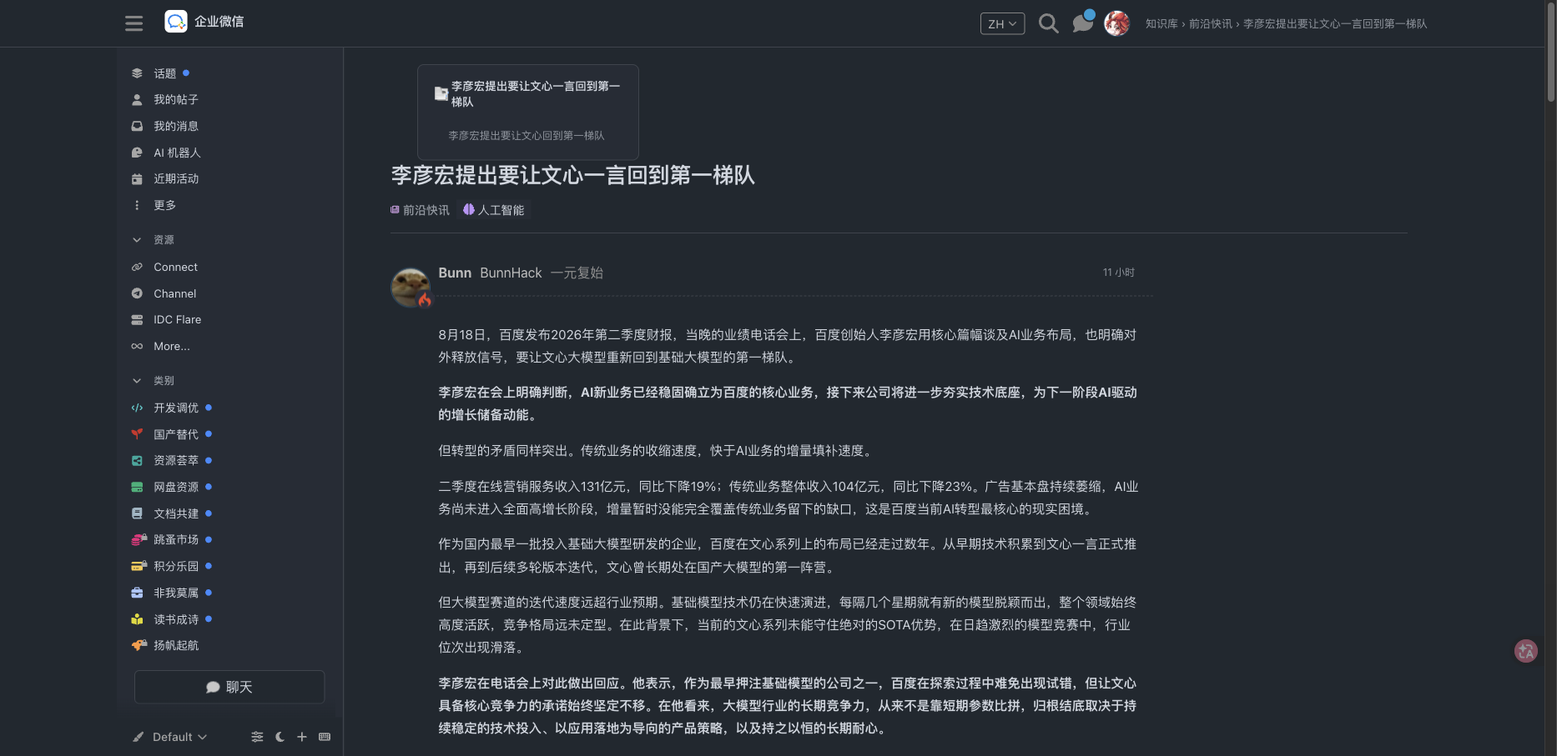
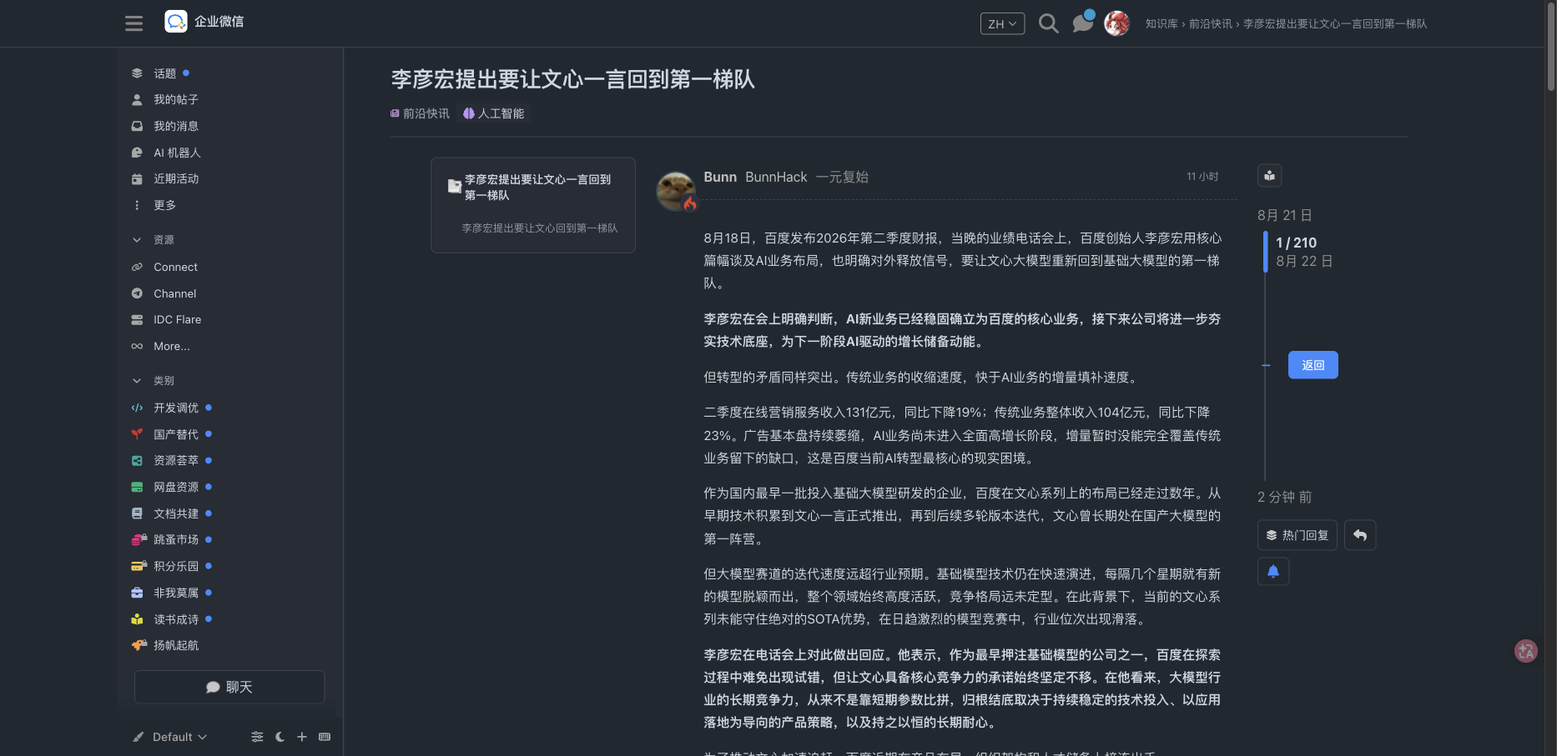
fix(layout): fix TOC positioning and restore WeCom styled topic timeline

diff --git a/linuxdo-wecom.user.js b/linuxdo-wecom.user.js
@@ -12,7 +12,7 @@
 
 (function () {
   "use strict";
-  const CSS = "/* ==========================================================================\n   Linux DO · 企业微信智能文档 / 团队知识库版式样式表 (WeCom Smart Doc Layout)\n   ========================================================================== */\n\n/* 1. 主题与色彩系统 (Theme & Tokens) */\nhtml.wecom-doc-theme {\n  color-scheme: light !important;\n  --wecom-bg: #ffffff;\n  --wecom-sidebar: #f6f7f9;\n  --wecom-line: #ebebeb;\n  --wecom-text: #1f1f1f;\n  --wecom-text-2: #6e6e6e;\n  --wecom-text-3: #8c8c8c;\n  --wecom-search: #f3f3f3;\n  --wecom-hover: #f0f0f0;\n  --wecom-active: rgba(31, 126, 255, 0.12);\n  --wecom-link: #1f7eff;\n  --wecom-link-hover: #006fe6;\n  --wecom-doc: #4b8cff;\n  --wecom-callout-bg: #f0f6ff;\n  --wecom-callout-border: rgba(31, 126, 255, 0.2);\n  --wecom-header-h: 56px;\n\n  /* Discourse 原生变量覆盖 */\n  --primary: #1f1f1f !important;\n  --secondary: #ffffff !important;\n  --header_background: #ffffff !important;\n  --header_primary: #1f1f1f !important;\n  --primary-low: #f6f7f9 !important;\n  --primary-very-low: #ffffff !important;\n  --d-hover: #f0f0f0 !important;\n  --tertiary: #1f7eff !important;\n}\n\n/* 深色模式：严格采用 GitHub Primer soft dark (dark_dimmed) + 智能文档蓝 */\nhtml.wecom-doc-theme.wecom-dark {\n  color-scheme: dark !important;\n  --wecom-bg: #212830;\n  --wecom-sidebar: #262c36;\n  --wecom-line: #3d444d;\n  --wecom-text: #d1d7e0;\n  --wecom-text-2: #9198a1;\n  --wecom-text-3: #9198a1;\n  --wecom-search: #2a313c;\n  --wecom-hover: #2f3742;\n  --wecom-active: rgba(56, 139, 255, 0.18);\n  --wecom-link: #388bff;\n  --wecom-link-hover: #549dff;\n  --wecom-doc: #4b8cff;\n  --wecom-callout-bg: #1c2438;\n  --wecom-callout-border: rgba(56, 139, 255, 0.25);\n\n  /* Discourse 原生变量覆盖 */\n  --primary: #d1d7e0 !important;\n  --secondary: #212830 !important;\n  --header_background: #212830 !important;\n  --header_primary: #d1d7e0 !important;\n  --primary-low: #262c36 !important;\n  --primary-very-low: #151b23 !important;\n  --d-hover: #2f3742 !important;\n  --tertiary: #388bff !important;\n}\n\nhtml.wecom-doc-theme,\nhtml.wecom-doc-theme body {\n  background: var(--wecom-bg) !important;\n  color: var(--wecom-text) !important;\n  font-family: -apple-system, BlinkMacSystemFont, \"Segoe UI\", \"PingFang SC\",\n    \"Hiragino Sans GB\", \"Microsoft YaHei\", Arial, sans-serif !important;\n  -webkit-font-smoothing: antialiased;\n}\n\nhtml.wecom-doc-theme a {\n  color: inherit;\n  text-decoration: none;\n}\n\nhtml.wecom-doc-theme .cooked a {\n  color: var(--wecom-link) !important;\n  text-decoration: none;\n}\n\nhtml.wecom-doc-theme .cooked a:hover {\n  text-decoration: underline;\n}\n\n/* ==========================================================================\n   2. 顶栏组件 (Header)\n   ========================================================================== */\nhtml.wecom-doc-theme .d-header-wrap,\nhtml.wecom-doc-theme body .d-header {\n  height: var(--wecom-header-h) !important;\n  background: var(--wecom-bg) !important;\n  border-bottom: 1px solid var(--wecom-line) !important;\n  box-shadow: none !important;\n}\n\nhtml.wecom-doc-theme .d-header .title img,\nhtml.wecom-doc-theme .d-header .title picture,\nhtml.wecom-doc-theme .d-header .title .logo-big,\nhtml.wecom-doc-theme .d-header .title .logo-small {\n  display: none !important;\n}\n\nhtml.wecom-doc-theme .wecom-brand {\n  display: inline-flex;\n  align-items: center;\n  gap: 8px;\n  font-size: 15px;\n  font-weight: 600;\n  color: var(--wecom-text);\n  text-decoration: none;\n  letter-spacing: -0.2px;\n}\n\nhtml.wecom-doc-theme .wecom-app-icon {\n  width: 28px;\n  height: 28px;\n  flex: none;\n  filter: drop-shadow(0 1px 2px rgba(0, 0, 0, 0.08));\n}\n\nhtml.wecom-doc-theme .wecom-topic-context {\n  margin-left: 14px;\n  display: inline-flex;\n  align-items: center;\n  overflow: hidden;\n  text-overflow: ellipsis;\n  white-space: nowrap;\n  color: var(--wecom-text-2);\n  font-size: 13px;\n  max-width: 55vw;\n}\n\nhtml.wecom-doc-theme .d-header .search-input {\n  border-radius: 6px !important;\n  background: var(--wecom-search) !important;\n  border: 1px solid var(--wecom-line) !important;\n  color: var(--wecom-text) !important;\n}\n\n/* ==========================================================================\n   3. 侧边栏导航 (Sidebar / Knowledge Base Navigation)\n   ========================================================================== */\nhtml.wecom-doc-theme .sidebar-wrapper {\n  background: var(--wecom-sidebar) !important;\n  border-right: 1px solid var(--wecom-line) !important;\n  box-shadow: none !important;\n}\n\nhtml.wecom-doc-theme .sidebar-section-header-text {\n  font-size: 12px !important;\n  font-weight: 600 !important;\n  color: var(--wecom-text-3) !important;\n  text-transform: uppercase;\n  letter-spacing: 0.5px;\n}\n\nhtml.wecom-doc-theme .sidebar-section-link,\nhtml.wecom-doc-theme .sidebar-section-link-content-text {\n  color: var(--wecom-text) !important;\n  font-size: 13.5px !important;\n  font-weight: 400;\n}\n\nhtml.wecom-doc-theme .sidebar-section-link-wrapper.is-active,\nhtml.wecom-doc-theme .sidebar-section-link.active {\n  background: var(--wecom-active) !important;\n  color: var(--wecom-link) !important;\n  border-radius: 6px;\n  font-weight: 500 !important;\n}\n\nhtml.wecom-doc-theme .sidebar-section-link:hover {\n  background: var(--wecom-hover);\n  border-radius: 6px;\n}\n\n/* ==========================================================================\n   4. 主页文件表版式 (Home: Knowledge Base File Table)\n   ========================================================================== */\n/* 弱化或隐藏论坛式大条幅与全站公告 */\nhtml.wecom-doc-theme .custom-homepage-banner,\nhtml.wecom-doc-theme #banner,\nhtml.wecom-doc-theme .global-notice,\nhtml.wecom-doc-theme .alert-global-notice,\nhtml.wecom-doc-theme .welcome-banner,\nhtml.wecom-doc-theme .custom-search-banner-wrap,\nhtml.wecom-doc-theme .where-possible-begins,\nhtml.wecom-doc-theme .hero-banner {\n  display: none !important;\n}\n\n/* 主内容区 */\nhtml.wecom-doc-theme #main-outlet {\n  background: var(--wecom-bg) !important;\n  max-width: 1380px !important;\n  padding: 20px 24px !important;\n}\n\n/* 话题列表表头伪装为文件表 */\nhtml.wecom-doc-theme .topic-list-header th {\n  color: var(--wecom-text-3) !important;\n  border-bottom: 1px solid var(--wecom-line) !important;\n  font-weight: 500;\n  font-size: 13px;\n  padding: 10px 8px;\n}\n\nhtml.wecom-doc-theme .topic-list-item {\n  border-bottom: 1px solid var(--wecom-line) !important;\n  transition: background 120ms ease;\n}\n\nhtml.wecom-doc-theme .topic-list-item:hover {\n  background: var(--wecom-hover) !important;\n}\n\n/* 行首蓝色文档图标 */\nhtml.wecom-doc-theme .wecom-doc-icon {\n  width: 18px;\n  height: 18px;\n  border-radius: 4px;\n  flex: none;\n  background: var(--wecom-doc);\n  position: relative;\n  display: inline-block;\n  vertical-align: -3px;\n  margin-right: 8px;\n}\n\nhtml.wecom-doc-theme .wecom-doc-icon::before {\n  content: \"\";\n  position: absolute;\n  left: 3.5px;\n  right: 3.5px;\n  top: 4px;\n  bottom: 4px;\n  background:\n    linear-gradient(#fff, #fff) 0 0 / 100% 2px no-repeat,\n    linear-gradient(#fff, #fff) 0 3.5px / 100% 2px no-repeat,\n    linear-gradient(#fff, #fff) 0 7px / 65% 2px no-repeat;\n}\n\n/* 压缩头像列，减少论坛广场感 */\nhtml.wecom-doc-theme .topic-list .posters {\n  max-width: 90px;\n}\n\nhtml.wecom-doc-theme .topic-list .posters a:not(:first-child) {\n  margin-left: -8px;\n  opacity: 0.85;\n}\n\nhtml.wecom-doc-theme .topic-list .avatar {\n  width: 22px !important;\n  height: 22px !important;\n  border-radius: 50% !important;\n  border: 1.5px solid var(--wecom-bg) !important;\n}\n\n/* 新建话题按钮 -> 企微新建文档按钮 */\nhtml.wecom-doc-theme .btn-primary,\nhtml.wecom-doc-theme .wecom-create-topic {\n  background: var(--wecom-link) !important;\n  color: #fff !important;\n  border: none !important;\n  border-radius: 6px !important;\n  font-weight: 500 !important;\n  padding: 7px 16px !important;\n  transition: background 120ms ease;\n}\n\nhtml.wecom-doc-theme .btn-primary:hover,\nhtml.wecom-doc-theme .wecom-create-topic:hover {\n  background: var(--wecom-link-hover) !important;\n}\n\nhtml.wecom-doc-theme .btn-default {\n  border-radius: 6px !important;\n  border: 1px solid var(--wecom-line) !important;\n  background: var(--wecom-bg) !important;\n  color: var(--wecom-text) !important;\n}\n\n/* ==========================================================================\n   5. 话题详情页版式 (Topic: Smart Document Canvas)\n   ========================================================================== */\nhtml.wecom-doc-topic #main-container {\n  display: flex !important;\n  flex-direction: row !important;\n  gap: 32px !important;\n  align-items: flex-start !important;\n  max-width: 1400px !important;\n  margin: 0 auto !important;\n  width: 100% !important;\n}\n\n/* 隐藏原生突兀的时间线与繁杂导航 */\nhtml.wecom-doc-topic .timeline-container,\nhtml.wecom-doc-topic #topic-navigation .topic-timeline,\nhtml.wecom-doc-topic .topic-timeline {\n  display: none !important;\n}\n\n/* 左栏 TOC 目录 (aside.wecom-toc) */\nhtml.wecom-doc-topic aside.wecom-toc {\n  width: 240px;\n  flex: none;\n  position: sticky;\n  top: 72px;\n  max-height: calc(100vh - 100px);\n  overflow-y: auto;\n  background: var(--wecom-sidebar);\n  border: 1px solid var(--wecom-line);\n  border-radius: 8px;\n  padding: 12px;\n  font-size: 13px;\n  box-shadow: 0 1px 3px rgba(0, 0, 0, 0.04);\n}\n\nhtml.wecom-doc-topic aside.wecom-toc.wecom-toc-empty {\n  display: none !important;\n}\n\nhtml.wecom-doc-topic .wecom-toc-header {\n  display: flex;\n  align-items: center;\n  gap: 6px;\n  font-size: 13.5px;\n  font-weight: 600;\n  color: var(--wecom-text);\n  margin-bottom: 12px;\n  cursor: pointer;\n  padding: 4px 8px;\n  border-radius: 6px;\n}\n\nhtml.wecom-doc-topic .wecom-toc-header:hover {\n  background: var(--wecom-hover);\n}\n\nhtml.wecom-doc-topic .wecom-toc-list {\n  list-style: none;\n  margin: 0;\n  padding: 0;\n}\n\nhtml.wecom-doc-topic .wecom-toc-item {\n  margin: 4px 0;\n}\n\nhtml.wecom-doc-topic .wecom-toc-item a {\n  display: block;\n  padding: 5px 8px;\n  border-radius: 6px;\n  color: var(--wecom-text-2);\n  white-space: nowrap;\n  overflow: hidden;\n  text-overflow: ellipsis;\n  transition: all 120ms ease;\n}\n\nhtml.wecom-doc-topic .wecom-toc-item a:hover {\n  background: var(--wecom-hover);\n  color: var(--wecom-link);\n}\n\nhtml.wecom-doc-topic .wecom-toc-level-2 a {\n  padding-left: 14px;\n}\n\nhtml.wecom-doc-topic .wecom-toc-level-3 a {\n  padding-left: 24px;\n  font-size: 12.5px;\n}\n\n/* 中栏主体 (Document Area) */\nhtml.wecom-doc-topic .container.posts {\n  flex: 1 1 0% !important;\n  min-width: 0 !important;\n}\n\nhtml.wecom-doc-topic #topic-title {\n  margin-bottom: 24px !important;\n  padding-bottom: 16px !important;\n  border-bottom: 1px solid var(--wecom-line) !important;\n}\n\nhtml.wecom-doc-topic #topic-title h1,\nhtml.wecom-doc-topic #topic-title .fancy-title {\n  font-size: 26px !important;\n  font-weight: 700 !important;\n  line-height: 1.35 !important;\n  color: var(--wecom-text) !important;\n  letter-spacing: -0.3px;\n  margin-bottom: 12px !important;\n}\n\nhtml.wecom-doc-topic #topic-title .badge-wrapper.bullet,\nhtml.wecom-doc-topic #topic-title .badge-wrapper.bar {\n  display: inline-flex !important;\n  align-items: center !important;\n  padding: 2px 8px !important;\n  border-radius: 4px !important;\n  background: var(--wecom-search) !important;\n  font-size: 12px !important;\n  margin-right: 6px !important;\n}\n\nhtml.wecom-doc-topic #topic-title .badge-category__name,\nhtml.wecom-doc-topic #topic-title .badge-category-bg {\n  color: var(--wecom-text-2) !important;\n  font-weight: 500 !important;\n}\n\n/* 主帖 (#post_1) 作为核心文档画布 */\nhtml.wecom-doc-topic .topic-post:first-child {\n  border: none !important;\n  margin-bottom: 36px !important;\n}\n\nhtml.wecom-doc-topic .topic-post:first-child .topic-body {\n  border-top: none !important;\n}\n\nhtml.wecom-doc-topic .topic-post:first-child .topic-meta-data {\n  display: flex !important;\n  align-items: center !important;\n  gap: 10px !important;\n  padding-bottom: 16px !important;\n  margin-bottom: 16px !important;\n  border-bottom: 1px dashed var(--wecom-line) !important;\n}\n\n/* 2 楼及以后的回复呈现为轻量「批注与讨论流」 */\nhtml.wecom-doc-topic .topic-post:not(:first-child) {\n  background: var(--wecom-sidebar) !important;\n  border: 1px solid var(--wecom-line) !important;\n  border-radius: 8px !important;\n  margin: 14px 0 !important;\n  padding: 8px 16px !important;\n  box-shadow: 0 1px 2px rgba(0, 0, 0, 0.03) !important;\n}\n\nhtml.wecom-doc-topic .topic-post:not(:first-child) .topic-body {\n  border-top: none !important;\n}\n\nhtml.wecom-doc-topic .topic-post:not(:first-child) .topic-meta-data {\n  padding-bottom: 4px !important;\n}\n\nhtml.wecom-doc-topic .names span.first.username {\n  font-weight: 600 !important;\n  color: var(--wecom-text) !important;\n  font-size: 13.5px !important;\n}\n\nhtml.wecom-doc-topic .post-info.post-date {\n  color: var(--wecom-text-3) !important;\n  font-size: 12px !important;\n}\n\n/* ==========================================================================\n   6. 正文排版与组件 (Smart Typography & Callouts)\n   ========================================================================== */\nhtml.wecom-doc-theme .cooked {\n  font-size: 15.5px !important;\n  line-height: 1.75 !important;\n  color: var(--wecom-text) !important;\n}\n\nhtml.wecom-doc-theme .cooked h1 {\n  font-size: 22px !important;\n  font-weight: 700 !important;\n  margin: 28px 0 14px !important;\n  color: var(--wecom-text) !important;\n  border-bottom: 1px solid var(--wecom-line) !important;\n  padding-bottom: 8px !important;\n}\n\nhtml.wecom-doc-theme .cooked h2 {\n  font-size: 18.5px !important;\n  font-weight: 600 !important;\n  margin: 24px 0 12px !important;\n  color: var(--wecom-text) !important;\n}\n\nhtml.wecom-doc-theme .cooked h3 {\n  font-size: 16.5px !important;\n  font-weight: 600 !important;\n  margin: 20px 0 10px !important;\n  color: var(--wecom-text) !important;\n}\n\nhtml.wecom-doc-theme .cooked ul,\nhtml.wecom-doc-theme .cooked ol {\n  padding-left: 24px !important;\n  margin: 12px 0 !important;\n}\n\nhtml.wecom-doc-theme .cooked li {\n  margin-bottom: 6px !important;\n  line-height: 1.7 !important;\n}\n\n/* 智能文档专属 Callout 提示框 */\nhtml.wecom-doc-theme .cooked blockquote,\nhtml.wecom-doc-theme aside.quote {\n  margin: 16px 0 !important;\n  padding: 14px 18px !important;\n  border: 1px solid var(--wecom-callout-border) !important;\n  background: var(--wecom-callout-bg) !important;\n  border-radius: 8px !important;\n  color: var(--wecom-text) !important;\n  position: relative;\n  box-shadow: 0 1px 3px rgba(0, 0, 0, 0.04);\n}\n\nhtml.wecom-doc-theme .cooked blockquote p:last-child {\n  margin-bottom: 0 !important;\n}\n\n/* 代码块与行内代码 */\nhtml.wecom-doc-theme .cooked code {\n  background: var(--wecom-search) !important;\n  color: var(--wecom-text) !important;\n  padding: 2px 6px !important;\n  border-radius: 4px !important;\n  font-size: 0.9em !important;\n}\n\nhtml.wecom-doc-theme .cooked pre code {\n  padding: 14px 16px !important;\n  border-radius: 8px !important;\n  border: 1px solid var(--wecom-line) !important;\n  display: block;\n  line-height: 1.55 !important;\n}\n\n/* 表格组件 */\nhtml.wecom-doc-theme .cooked table {\n  width: 100% !important;\n  border-collapse: collapse !important;\n  margin: 16px 0 !important;\n  border: 1px solid var(--wecom-line) !important;\n  border-radius: 6px !important;\n}\n\nhtml.wecom-doc-theme .cooked table th,\nhtml.wecom-doc-theme .cooked table td {\n  border: 1px solid var(--wecom-line) !important;\n  padding: 10px 14px !important;\n}\n\nhtml.wecom-doc-theme .cooked table th {\n  background: var(--wecom-sidebar) !important;\n  font-weight: 600 !important;\n}\n\n/* 底部操作区 */\nhtml.wecom-doc-theme #topic-footer-buttons {\n  border-top: 1px solid var(--wecom-line) !important;\n  padding-top: 16px !important;\n}\n\n";
+  const CSS = "/* ==========================================================================\n   Linux DO · 企业微信智能文档 / 团队知识库版式样式表 (WeCom Smart Doc Layout)\n   ========================================================================== */\n\n/* 1. 主题与色彩系统 (Theme & Tokens) */\nhtml.wecom-doc-theme {\n  color-scheme: light !important;\n  --wecom-bg: #ffffff;\n  --wecom-sidebar: #f6f7f9;\n  --wecom-line: #ebebeb;\n  --wecom-text: #1f1f1f;\n  --wecom-text-2: #6e6e6e;\n  --wecom-text-3: #8c8c8c;\n  --wecom-search: #f3f3f3;\n  --wecom-hover: #f0f0f0;\n  --wecom-active: rgba(31, 126, 255, 0.12);\n  --wecom-link: #1f7eff;\n  --wecom-link-hover: #006fe6;\n  --wecom-doc: #4b8cff;\n  --wecom-callout-bg: #f0f6ff;\n  --wecom-callout-border: rgba(31, 126, 255, 0.2);\n  --wecom-header-h: 56px;\n\n  /* Discourse 原生变量覆盖 */\n  --primary: #1f1f1f !important;\n  --secondary: #ffffff !important;\n  --header_background: #ffffff !important;\n  --header_primary: #1f1f1f !important;\n  --primary-low: #f6f7f9 !important;\n  --primary-very-low: #ffffff !important;\n  --d-hover: #f0f0f0 !important;\n  --tertiary: #1f7eff !important;\n}\n\n/* 深色模式：严格采用 GitHub Primer soft dark (dark_dimmed) + 智能文档蓝 */\nhtml.wecom-doc-theme.wecom-dark {\n  color-scheme: dark !important;\n  --wecom-bg: #212830;\n  --wecom-sidebar: #262c36;\n  --wecom-line: #3d444d;\n  --wecom-text: #d1d7e0;\n  --wecom-text-2: #9198a1;\n  --wecom-text-3: #9198a1;\n  --wecom-search: #2a313c;\n  --wecom-hover: #2f3742;\n  --wecom-active: rgba(56, 139, 255, 0.18);\n  --wecom-link: #388bff;\n  --wecom-link-hover: #549dff;\n  --wecom-doc: #4b8cff;\n  --wecom-callout-bg: #1c2438;\n  --wecom-callout-border: rgba(56, 139, 255, 0.25);\n\n  /* Discourse 原生变量覆盖 */\n  --primary: #d1d7e0 !important;\n  --secondary: #212830 !important;\n  --header_background: #212830 !important;\n  --header_primary: #d1d7e0 !important;\n  --primary-low: #262c36 !important;\n  --primary-very-low: #151b23 !important;\n  --d-hover: #2f3742 !important;\n  --tertiary: #388bff !important;\n}\n\nhtml.wecom-doc-theme,\nhtml.wecom-doc-theme body {\n  background: var(--wecom-bg) !important;\n  color: var(--wecom-text) !important;\n  font-family: -apple-system, BlinkMacSystemFont, \"Segoe UI\", \"PingFang SC\",\n    \"Hiragino Sans GB\", \"Microsoft YaHei\", Arial, sans-serif !important;\n  -webkit-font-smoothing: antialiased;\n}\n\nhtml.wecom-doc-theme a {\n  color: inherit;\n  text-decoration: none;\n}\n\nhtml.wecom-doc-theme .cooked a {\n  color: var(--wecom-link) !important;\n  text-decoration: none;\n}\n\nhtml.wecom-doc-theme .cooked a:hover {\n  text-decoration: underline;\n}\n\n/* ==========================================================================\n   2. 顶栏组件 (Header)\n   ========================================================================== */\nhtml.wecom-doc-theme .d-header-wrap,\nhtml.wecom-doc-theme body .d-header {\n  height: var(--wecom-header-h) !important;\n  background: var(--wecom-bg) !important;\n  border-bottom: 1px solid var(--wecom-line) !important;\n  box-shadow: none !important;\n}\n\nhtml.wecom-doc-theme .d-header .title img,\nhtml.wecom-doc-theme .d-header .title picture,\nhtml.wecom-doc-theme .d-header .title .logo-big,\nhtml.wecom-doc-theme .d-header .title .logo-small {\n  display: none !important;\n}\n\nhtml.wecom-doc-theme .wecom-brand {\n  display: inline-flex;\n  align-items: center;\n  gap: 8px;\n  font-size: 15px;\n  font-weight: 600;\n  color: var(--wecom-text);\n  text-decoration: none;\n  letter-spacing: -0.2px;\n}\n\nhtml.wecom-doc-theme .wecom-app-icon {\n  width: 28px;\n  height: 28px;\n  flex: none;\n  filter: drop-shadow(0 1px 2px rgba(0, 0, 0, 0.08));\n}\n\nhtml.wecom-doc-theme .wecom-topic-context {\n  margin-left: 14px;\n  display: inline-flex;\n  align-items: center;\n  overflow: hidden;\n  text-overflow: ellipsis;\n  white-space: nowrap;\n  color: var(--wecom-text-2);\n  font-size: 13px;\n  max-width: 55vw;\n}\n\nhtml.wecom-doc-theme .d-header .search-input {\n  border-radius: 6px !important;\n  background: var(--wecom-search) !important;\n  border: 1px solid var(--wecom-line) !important;\n  color: var(--wecom-text) !important;\n}\n\n/* ==========================================================================\n   3. 侧边栏导航 (Sidebar / Knowledge Base Navigation)\n   ========================================================================== */\nhtml.wecom-doc-theme .sidebar-wrapper {\n  background: var(--wecom-sidebar) !important;\n  border-right: 1px solid var(--wecom-line) !important;\n  box-shadow: none !important;\n}\n\nhtml.wecom-doc-theme .sidebar-section-header-text {\n  font-size: 12px !important;\n  font-weight: 600 !important;\n  color: var(--wecom-text-3) !important;\n  text-transform: uppercase;\n  letter-spacing: 0.5px;\n}\n\nhtml.wecom-doc-theme .sidebar-section-link,\nhtml.wecom-doc-theme .sidebar-section-link-content-text {\n  color: var(--wecom-text) !important;\n  font-size: 13.5px !important;\n  font-weight: 400;\n}\n\nhtml.wecom-doc-theme .sidebar-section-link-wrapper.is-active,\nhtml.wecom-doc-theme .sidebar-section-link.active {\n  background: var(--wecom-active) !important;\n  color: var(--wecom-link) !important;\n  border-radius: 6px;\n  font-weight: 500 !important;\n}\n\nhtml.wecom-doc-theme .sidebar-section-link:hover {\n  background: var(--wecom-hover);\n  border-radius: 6px;\n}\n\n/* ==========================================================================\n   4. 主页文件表版式 (Home: Knowledge Base File Table)\n   ========================================================================== */\n/* 弱化或隐藏论坛式大条幅与全站公告 */\nhtml.wecom-doc-theme .custom-homepage-banner,\nhtml.wecom-doc-theme #banner,\nhtml.wecom-doc-theme .global-notice,\nhtml.wecom-doc-theme .alert-global-notice,\nhtml.wecom-doc-theme .welcome-banner,\nhtml.wecom-doc-theme .custom-search-banner-wrap,\nhtml.wecom-doc-theme .where-possible-begins,\nhtml.wecom-doc-theme .hero-banner {\n  display: none !important;\n}\n\n/* 主内容区 */\nhtml.wecom-doc-theme #main-outlet {\n  background: var(--wecom-bg) !important;\n  max-width: 1380px !important;\n  padding: 20px 24px !important;\n}\n\n/* 话题列表表头伪装为文件表 */\nhtml.wecom-doc-theme .topic-list-header th {\n  color: var(--wecom-text-3) !important;\n  border-bottom: 1px solid var(--wecom-line) !important;\n  font-weight: 500;\n  font-size: 13px;\n  padding: 10px 8px;\n}\n\nhtml.wecom-doc-theme .topic-list-item {\n  border-bottom: 1px solid var(--wecom-line) !important;\n  transition: background 120ms ease;\n}\n\nhtml.wecom-doc-theme .topic-list-item:hover {\n  background: var(--wecom-hover) !important;\n}\n\n/* 行首蓝色文档图标 */\nhtml.wecom-doc-theme .wecom-doc-icon {\n  width: 18px;\n  height: 18px;\n  border-radius: 4px;\n  flex: none;\n  background: var(--wecom-doc);\n  position: relative;\n  display: inline-block;\n  vertical-align: -3px;\n  margin-right: 8px;\n}\n\nhtml.wecom-doc-theme .wecom-doc-icon::before {\n  content: \"\";\n  position: absolute;\n  left: 3.5px;\n  right: 3.5px;\n  top: 4px;\n  bottom: 4px;\n  background:\n    linear-gradient(#fff, #fff) 0 0 / 100% 2px no-repeat,\n    linear-gradient(#fff, #fff) 0 3.5px / 100% 2px no-repeat,\n    linear-gradient(#fff, #fff) 0 7px / 65% 2px no-repeat;\n}\n\n/* 压缩头像列，减少论坛广场感 */\nhtml.wecom-doc-theme .topic-list .posters {\n  max-width: 90px;\n}\n\nhtml.wecom-doc-theme .topic-list .posters a:not(:first-child) {\n  margin-left: -8px;\n  opacity: 0.85;\n}\n\nhtml.wecom-doc-theme .topic-list .avatar {\n  width: 22px !important;\n  height: 22px !important;\n  border-radius: 50% !important;\n  border: 1.5px solid var(--wecom-bg) !important;\n}\n\n/* 新建话题按钮 -> 企微新建文档按钮 */\nhtml.wecom-doc-theme .btn-primary,\nhtml.wecom-doc-theme .wecom-create-topic {\n  background: var(--wecom-link) !important;\n  color: #fff !important;\n  border: none !important;\n  border-radius: 6px !important;\n  font-weight: 500 !important;\n  padding: 7px 16px !important;\n  transition: background 120ms ease;\n}\n\nhtml.wecom-doc-theme .btn-primary:hover,\nhtml.wecom-doc-theme .wecom-create-topic:hover {\n  background: var(--wecom-link-hover) !important;\n}\n\nhtml.wecom-doc-theme .btn-default {\n  border-radius: 6px !important;\n  border: 1px solid var(--wecom-line) !important;\n  background: var(--wecom-bg) !important;\n  color: var(--wecom-text) !important;\n}\n\n/* ==========================================================================\n   5. 话题详情页版式 (Topic: Smart Document Canvas & Timeline)\n   ========================================================================== */\nhtml.wecom-doc-topic #main-container {\n  max-width: 1400px !important;\n  margin: 0 auto !important;\n  width: 100% !important;\n}\n\nhtml.wecom-doc-topic #topic-title {\n  margin-bottom: 24px !important;\n  padding-bottom: 16px !important;\n  border-bottom: 1px solid var(--wecom-line) !important;\n  width: 100% !important;\n}\n\nhtml.wecom-doc-topic #topic-title h1,\nhtml.wecom-doc-topic #topic-title .fancy-title {\n  font-size: 26px !important;\n  font-weight: 700 !important;\n  line-height: 1.35 !important;\n  color: var(--wecom-text) !important;\n  letter-spacing: -0.3px;\n  margin-bottom: 12px !important;\n}\n\nhtml.wecom-doc-topic #topic-title .badge-wrapper.bullet,\nhtml.wecom-doc-topic #topic-title .badge-wrapper.bar {\n  display: inline-flex !important;\n  align-items: center !important;\n  padding: 2px 8px !important;\n  border-radius: 4px !important;\n  background: var(--wecom-search) !important;\n  font-size: 12px !important;\n  margin-right: 6px !important;\n}\n\nhtml.wecom-doc-topic #topic-title .badge-category__name,\nhtml.wecom-doc-topic #topic-title .badge-category-bg {\n  color: var(--wecom-text-2) !important;\n  font-weight: 500 !important;\n}\n\n/* 话题正文与侧栏三栏协同容器 */\nhtml.wecom-doc-topic .container.posts {\n  display: flex !important;\n  flex-direction: row !important;\n  gap: 24px !important;\n  align-items: flex-start !important;\n  width: 100% !important;\n  position: relative !important;\n}\n\n/* 左栏 TOC 目录 (aside.wecom-toc) */\nhtml.wecom-doc-topic aside.wecom-toc {\n  order: 1 !important;\n  width: 220px !important;\n  flex: none !important;\n  position: sticky !important;\n  top: 72px !important;\n  align-self: flex-start !important;\n  max-height: calc(100vh - 100px) !important;\n  overflow-y: auto !important;\n  background: var(--wecom-sidebar) !important;\n  border: 1px solid var(--wecom-line) !important;\n  border-radius: 8px !important;\n  padding: 12px !important;\n  font-size: 13px !important;\n  box-shadow: 0 1px 3px rgba(0, 0, 0, 0.04) !important;\n  z-index: 10 !important;\n}\n\nhtml.wecom-doc-topic .wecom-toc-header {\n  display: flex;\n  align-items: center;\n  gap: 6px;\n  font-size: 13.5px;\n  font-weight: 600;\n  color: var(--wecom-text);\n  margin-bottom: 12px;\n  cursor: pointer;\n  padding: 4px 8px;\n  border-radius: 6px;\n}\n\nhtml.wecom-doc-topic .wecom-toc-header:hover {\n  background: var(--wecom-hover);\n}\n\nhtml.wecom-doc-topic .wecom-toc-list {\n  list-style: none;\n  margin: 0;\n  padding: 0;\n}\n\nhtml.wecom-doc-topic .wecom-toc-item {\n  margin: 4px 0;\n}\n\nhtml.wecom-doc-topic .wecom-toc-item a {\n  display: block;\n  padding: 5px 8px;\n  border-radius: 6px;\n  color: var(--wecom-text-2);\n  white-space: nowrap;\n  overflow: hidden;\n  text-overflow: ellipsis;\n  transition: all 120ms ease;\n}\n\nhtml.wecom-doc-topic .wecom-toc-item a:hover {\n  background: var(--wecom-hover);\n  color: var(--wecom-link);\n}\n\nhtml.wecom-doc-topic .wecom-toc-level-2 a {\n  padding-left: 14px;\n}\n\nhtml.wecom-doc-topic .wecom-toc-level-3 a {\n  padding-left: 24px;\n  font-size: 12.5px;\n}\n\n/* 中栏正文流 (Main Post Stream) */\nhtml.wecom-doc-topic .container.posts > .row,\nhtml.wecom-doc-topic .container.posts .post-stream {\n  order: 2 !important;\n  flex: 1 1 0% !important;\n  min-width: 0 !important;\n  width: 100% !important;\n}\n\n/* 右栏时间线与阅读进度导航 (Topic Timeline) */\nhtml.wecom-doc-topic .container.posts .topic-navigation {\n  order: 3 !important;\n  width: 180px !important;\n  flex: none !important;\n  position: sticky !important;\n  top: 72px !important;\n  align-self: flex-start !important;\n  display: block !important;\n  margin: 0 !important;\n}\n\nhtml.wecom-doc-topic .timeline-container {\n  background: transparent !important;\n  display: block !important;\n  position: static !important;\n}\n\nhtml.wecom-doc-topic .timeline-container .topic-timeline .timeline-handle {\n  background-color: var(--wecom-link) !important;\n  border-radius: 4px !important;\n}\n\nhtml.wecom-doc-topic .timeline-container .topic-timeline .timeline-scrollarea {\n  border-left: 2px solid var(--wecom-line) !important;\n}\n\nhtml.wecom-doc-topic .timeline-container .topic-timeline .timeline-docked {\n  border-left-color: var(--wecom-line) !important;\n}\n\nhtml.wecom-doc-topic .timeline-container .timeline-controls button {\n  border-radius: 6px !important;\n  border: 1px solid var(--wecom-line) !important;\n  background: var(--wecom-sidebar) !important;\n  color: var(--wecom-text) !important;\n  font-size: 12px !important;\n}\n\nhtml.wecom-doc-topic .wecom-toc-level-3 a {\n  padding-left: 24px;\n  font-size: 12.5px;\n}\n\n/* 中栏主体 (Document Area) */\nhtml.wecom-doc-topic .container.posts {\n  flex: 1 1 0% !important;\n  min-width: 0 !important;\n}\n\nhtml.wecom-doc-topic #topic-title {\n  margin-bottom: 24px !important;\n  padding-bottom: 16px !important;\n  border-bottom: 1px solid var(--wecom-line) !important;\n}\n\nhtml.wecom-doc-topic #topic-title h1,\nhtml.wecom-doc-topic #topic-title .fancy-title {\n  font-size: 26px !important;\n  font-weight: 700 !important;\n  line-height: 1.35 !important;\n  color: var(--wecom-text) !important;\n  letter-spacing: -0.3px;\n  margin-bottom: 12px !important;\n}\n\nhtml.wecom-doc-topic #topic-title .badge-wrapper.bullet,\nhtml.wecom-doc-topic #topic-title .badge-wrapper.bar {\n  display: inline-flex !important;\n  align-items: center !important;\n  padding: 2px 8px !important;\n  border-radius: 4px !important;\n  background: var(--wecom-search) !important;\n  font-size: 12px !important;\n  margin-right: 6px !important;\n}\n\nhtml.wecom-doc-topic #topic-title .badge-category__name,\nhtml.wecom-doc-topic #topic-title .badge-category-bg {\n  color: var(--wecom-text-2) !important;\n  font-weight: 500 !important;\n}\n\n/* 主帖 (#post_1) 作为核心文档画布 */\nhtml.wecom-doc-topic .topic-post:first-child {\n  border: none !important;\n  margin-bottom: 36px !important;\n}\n\nhtml.wecom-doc-topic .topic-post:first-child .topic-body {\n  border-top: none !important;\n}\n\nhtml.wecom-doc-topic .topic-post:first-child .topic-meta-data {\n  display: flex !important;\n  align-items: center !important;\n  gap: 10px !important;\n  padding-bottom: 16px !important;\n  margin-bottom: 16px !important;\n  border-bottom: 1px dashed var(--wecom-line) !important;\n}\n\n/* 2 楼及以后的回复呈现为轻量「批注与讨论流」 */\nhtml.wecom-doc-topic .topic-post:not(:first-child) {\n  background: var(--wecom-sidebar) !important;\n  border: 1px solid var(--wecom-line) !important;\n  border-radius: 8px !important;\n  margin: 14px 0 !important;\n  padding: 8px 16px !important;\n  box-shadow: 0 1px 2px rgba(0, 0, 0, 0.03) !important;\n}\n\nhtml.wecom-doc-topic .topic-post:not(:first-child) .topic-body {\n  border-top: none !important;\n}\n\nhtml.wecom-doc-topic .topic-post:not(:first-child) .topic-meta-data {\n  padding-bottom: 4px !important;\n}\n\nhtml.wecom-doc-topic .names span.first.username {\n  font-weight: 600 !important;\n  color: var(--wecom-text) !important;\n  font-size: 13.5px !important;\n}\n\nhtml.wecom-doc-topic .post-info.post-date {\n  color: var(--wecom-text-3) !important;\n  font-size: 12px !important;\n}\n\n/* ==========================================================================\n   6. 正文排版与组件 (Smart Typography & Callouts)\n   ========================================================================== */\nhtml.wecom-doc-theme .cooked {\n  font-size: 15.5px !important;\n  line-height: 1.75 !important;\n  color: var(--wecom-text) !important;\n}\n\nhtml.wecom-doc-theme .cooked h1 {\n  font-size: 22px !important;\n  font-weight: 700 !important;\n  margin: 28px 0 14px !important;\n  color: var(--wecom-text) !important;\n  border-bottom: 1px solid var(--wecom-line) !important;\n  padding-bottom: 8px !important;\n}\n\nhtml.wecom-doc-theme .cooked h2 {\n  font-size: 18.5px !important;\n  font-weight: 600 !important;\n  margin: 24px 0 12px !important;\n  color: var(--wecom-text) !important;\n}\n\nhtml.wecom-doc-theme .cooked h3 {\n  font-size: 16.5px !important;\n  font-weight: 600 !important;\n  margin: 20px 0 10px !important;\n  color: var(--wecom-text) !important;\n}\n\nhtml.wecom-doc-theme .cooked ul,\nhtml.wecom-doc-theme .cooked ol {\n  padding-left: 24px !important;\n  margin: 12px 0 !important;\n}\n\nhtml.wecom-doc-theme .cooked li {\n  margin-bottom: 6px !important;\n  line-height: 1.7 !important;\n}\n\n/* 智能文档专属 Callout 提示框 */\nhtml.wecom-doc-theme .cooked blockquote,\nhtml.wecom-doc-theme aside.quote {\n  margin: 16px 0 !important;\n  padding: 14px 18px !important;\n  border: 1px solid var(--wecom-callout-border) !important;\n  background: var(--wecom-callout-bg) !important;\n  border-radius: 8px !important;\n  color: var(--wecom-text) !important;\n  position: relative;\n  box-shadow: 0 1px 3px rgba(0, 0, 0, 0.04);\n}\n\nhtml.wecom-doc-theme .cooked blockquote p:last-child {\n  margin-bottom: 0 !important;\n}\n\n/* 代码块与行内代码 */\nhtml.wecom-doc-theme .cooked code {\n  background: var(--wecom-search) !important;\n  color: var(--wecom-text) !important;\n  padding: 2px 6px !important;\n  border-radius: 4px !important;\n  font-size: 0.9em !important;\n}\n\nhtml.wecom-doc-theme .cooked pre code {\n  padding: 14px 16px !important;\n  border-radius: 8px !important;\n  border: 1px solid var(--wecom-line) !important;\n  display: block;\n  line-height: 1.55 !important;\n}\n\n/* 表格组件 */\nhtml.wecom-doc-theme .cooked table {\n  width: 100% !important;\n  border-collapse: collapse !important;\n  margin: 16px 0 !important;\n  border: 1px solid var(--wecom-line) !important;\n  border-radius: 6px !important;\n}\n\nhtml.wecom-doc-theme .cooked table th,\nhtml.wecom-doc-theme .cooked table td {\n  border: 1px solid var(--wecom-line) !important;\n  padding: 10px 14px !important;\n}\n\nhtml.wecom-doc-theme .cooked table th {\n  background: var(--wecom-sidebar) !important;\n  font-weight: 600 !important;\n}\n\n/* 底部操作区 */\nhtml.wecom-doc-theme #topic-footer-buttons {\n  border-top: 1px solid var(--wecom-line) !important;\n  padding-top: 16px !important;\n}\n\n";
 const THEME_CLASS = "wecom-doc-theme";
 const HOME_CLASS = "wecom-doc-home";
 const TOPIC_CLASS = "wecom-doc-topic";
@@ -250,30 +250,32 @@ function makeDocumentTitle(document, isTopic) {
 }
 
 function makeToc(document) {
-  const container = document.querySelector("#main-container") || document.querySelector("#main-outlet");
-  if (!container) return;
+  const postsContainer = document.querySelector(".container.posts");
   const opPost = findOpPost(document);
   const entries = collectTocEntries(opPost);
-  const topicTitleEl = document.querySelector("#topic-title h1, #topic-title .fancy-title");
-  const rootTitle = topicTitleEl?.textContent?.trim().replace(/\s+/g, " ") || "正文目录";
 
-  let tocAside = container.querySelector(":scope > aside.wecom-toc") || document.querySelector("aside.wecom-toc");
+  for (const orphan of document.querySelectorAll("aside.wecom-toc")) {
+    if (!postsContainer || orphan.parentElement !== postsContainer) {
+      orphan.remove();
+    }
+  }
+
+  if (!postsContainer || !entries.length) {
+    for (const toc of document.querySelectorAll("aside.wecom-toc")) {
+      toc.remove();
+    }
+    return;
+  }
+
+  let tocAside = postsContainer.querySelector(":scope > aside.wecom-toc");
   if (!tocAside) {
     tocAside = document.createElement("aside");
     tocAside.className = "wecom-toc";
-    container.prepend(tocAside);
+    postsContainer.prepend(tocAside);
   }
 
-  if (!entries.length) {
-    tocAside.classList.add("wecom-toc-empty");
-    tocAside.innerHTML = `
-      <div class="wecom-toc-header">
-        <span class="wecom-toc-icon">📑</span>
-        <span class="wecom-toc-title">${rootTitle}</span>
-      </div>
-    `;
-    return;
-  }
+  const topicTitleEl = document.querySelector("#topic-title h1, #topic-title .fancy-title");
+  const rootTitle = topicTitleEl?.textContent?.trim().replace(/\s+/g, " ") || "正文目录";
 
   tocAside.classList.remove("wecom-toc-empty");
   const itemsHtml = entries

diff --git a/wecom-style.css b/wecom-style.css
@@ -284,43 +284,75 @@ html.wecom-doc-theme .btn-default {
 }
 
 /* ==========================================================================
-   5. 话题详情页版式 (Topic: Smart Document Canvas)
+   5. 话题详情页版式 (Topic: Smart Document Canvas & Timeline)
    ========================================================================== */
 html.wecom-doc-topic #main-container {
-  display: flex !important;
-  flex-direction: row !important;
-  gap: 32px !important;
-  align-items: flex-start !important;
   max-width: 1400px !important;
   margin: 0 auto !important;
   width: 100% !important;
 }
 
-/* 隐藏原生突兀的时间线与繁杂导航 */
-html.wecom-doc-topic .timeline-container,
-html.wecom-doc-topic #topic-navigation .topic-timeline,
-html.wecom-doc-topic .topic-timeline {
-  display: none !important;
+html.wecom-doc-topic #topic-title {
+  margin-bottom: 24px !important;
+  padding-bottom: 16px !important;
+  border-bottom: 1px solid var(--wecom-line) !important;
+  width: 100% !important;
+}
+
+html.wecom-doc-topic #topic-title h1,
+html.wecom-doc-topic #topic-title .fancy-title {
+  font-size: 26px !important;
+  font-weight: 700 !important;
+  line-height: 1.35 !important;
+  color: var(--wecom-text) !important;
+  letter-spacing: -0.3px;
+  margin-bottom: 12px !important;
+}
+
+html.wecom-doc-topic #topic-title .badge-wrapper.bullet,
+html.wecom-doc-topic #topic-title .badge-wrapper.bar {
+  display: inline-flex !important;
+  align-items: center !important;
+  padding: 2px 8px !important;
+  border-radius: 4px !important;
+  background: var(--wecom-search) !important;
+  font-size: 12px !important;
+  margin-right: 6px !important;
+}
+
+html.wecom-doc-topic #topic-title .badge-category__name,
+html.wecom-doc-topic #topic-title .badge-category-bg {
+  color: var(--wecom-text-2) !important;
+  font-weight: 500 !important;
+}
+
+/* 话题正文与侧栏三栏协同容器 */
+html.wecom-doc-topic .container.posts {
+  display: flex !important;
+  flex-direction: row !important;
+  gap: 24px !important;
+  align-items: flex-start !important;
+  width: 100% !important;
+  position: relative !important;
 }
 
 /* 左栏 TOC 目录 (aside.wecom-toc) */
 html.wecom-doc-topic aside.wecom-toc {
-  width: 240px;
-  flex: none;
-  position: sticky;
-  top: 72px;
-  max-height: calc(100vh - 100px);
-  overflow-y: auto;
-  background: var(--wecom-sidebar);
-  border: 1px solid var(--wecom-line);
-  border-radius: 8px;
-  padding: 12px;
-  font-size: 13px;
-  box-shadow: 0 1px 3px rgba(0, 0, 0, 0.04);
-}
-
-html.wecom-doc-topic aside.wecom-toc.wecom-toc-empty {
-  display: none !important;
+  order: 1 !important;
+  width: 220px !important;
+  flex: none !important;
+  position: sticky !important;
+  top: 72px !important;
+  align-self: flex-start !important;
+  max-height: calc(100vh - 100px) !important;
+  overflow-y: auto !important;
+  background: var(--wecom-sidebar) !important;
+  border: 1px solid var(--wecom-line) !important;
+  border-radius: 8px !important;
+  padding: 12px !important;
+  font-size: 13px !important;
+  box-shadow: 0 1px 3px rgba(0, 0, 0, 0.04) !important;
+  z-index: 10 !important;
 }
 
 html.wecom-doc-topic .wecom-toc-header {
@@ -368,6 +400,59 @@ html.wecom-doc-topic .wecom-toc-item a:hover {
 
 html.wecom-doc-topic .wecom-toc-level-2 a {
   padding-left: 14px;
+}
+
+html.wecom-doc-topic .wecom-toc-level-3 a {
+  padding-left: 24px;
+  font-size: 12.5px;
+}
+
+/* 中栏正文流 (Main Post Stream) */
+html.wecom-doc-topic .container.posts > .row,
+html.wecom-doc-topic .container.posts .post-stream {
+  order: 2 !important;
+  flex: 1 1 0% !important;
+  min-width: 0 !important;
+  width: 100% !important;
+}
+
+/* 右栏时间线与阅读进度导航 (Topic Timeline) */
+html.wecom-doc-topic .container.posts .topic-navigation {
+  order: 3 !important;
+  width: 180px !important;
+  flex: none !important;
+  position: sticky !important;
+  top: 72px !important;
+  align-self: flex-start !important;
+  display: block !important;
+  margin: 0 !important;
+}
+
+html.wecom-doc-topic .timeline-container {
+  background: transparent !important;
+  display: block !important;
+  position: static !important;
+}
+
+html.wecom-doc-topic .timeline-container .topic-timeline .timeline-handle {
+  background-color: var(--wecom-link) !important;
+  border-radius: 4px !important;
+}
+
+html.wecom-doc-topic .timeline-container .topic-timeline .timeline-scrollarea {
+  border-left: 2px solid var(--wecom-line) !important;
+}
+
+html.wecom-doc-topic .timeline-container .topic-timeline .timeline-docked {
+  border-left-color: var(--wecom-line) !important;
+}
+
+html.wecom-doc-topic .timeline-container .timeline-controls button {
+  border-radius: 6px !important;
+  border: 1px solid var(--wecom-line) !important;
+  background: var(--wecom-sidebar) !important;
+  color: var(--wecom-text) !important;
+  font-size: 12px !important;
 }
 
 html.wecom-doc-topic .wecom-toc-level-3 a {
